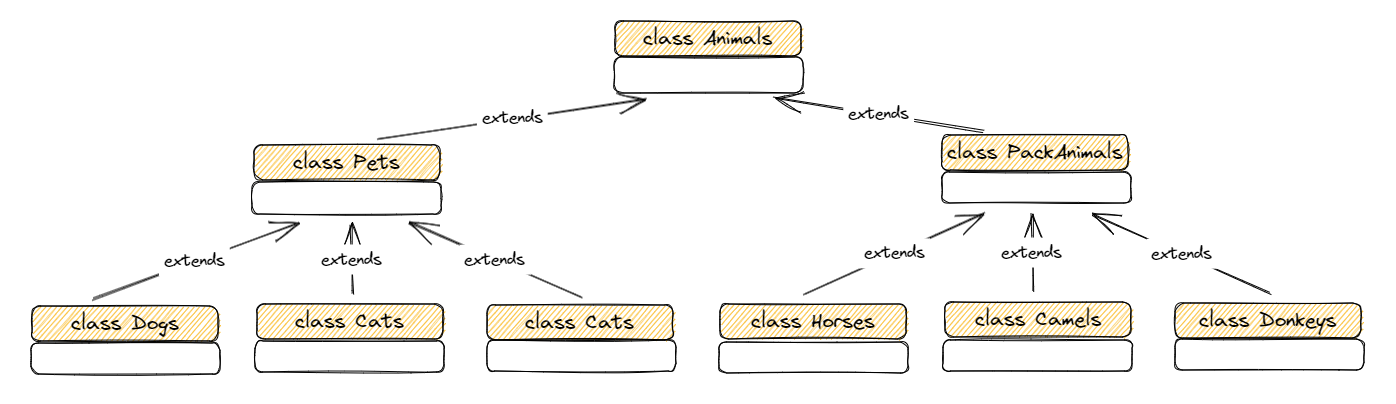
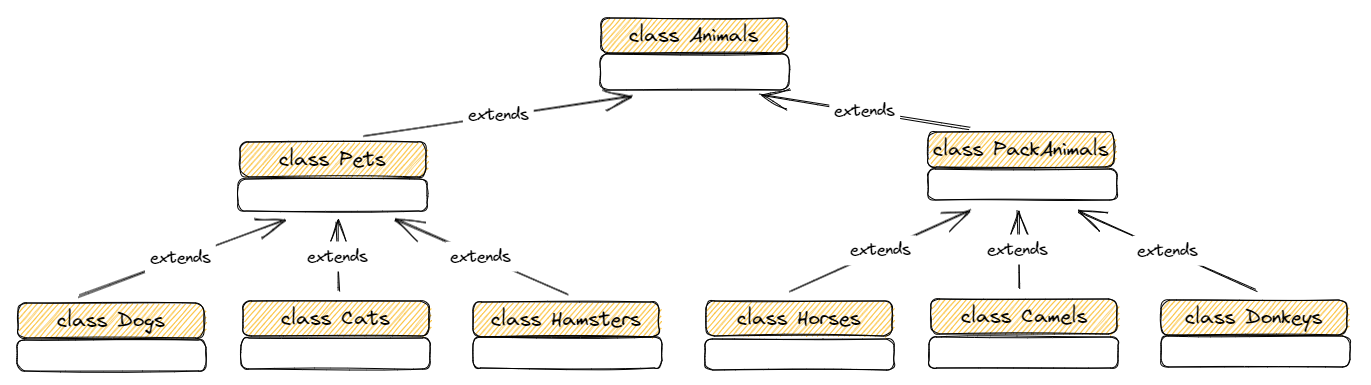
add creating tables in Readme.md

diff --git a/Readme.md b/Readme.md
@@ -134,8 +134,46 @@ aleksey@ubuntu-gb:~/gb$
 7. В подключенном MySQL репозитории создать базу данных “Друзья
    человека”
 ```sql
-CREATE DATABASE `mans_friends` ;
+CREATE DATABASE mans_friends;
 ```
+8. Создать таблицы с иерархией из диаграммы в БД
+```sql
+USE mans_friends;
+
+CREATE TABLE animals
+(
+	id INT AUTO_INCREMENT PRIMARY KEY,
+	animal_type VARCHAR(30)
+);
+
+INSERT INTO animals (animal_type)
+VALUES ('Домашние животные'), ('Вьючные животные');
+
+CREATE TABLE pets
+(
+	id INT AUTO_INCREMENT PRIMARY KEY,
+	animal_kind VARCHAR(30),
+	animal_type_id INT DEFAULT 1,
+	FOREIGN KEY (animal_type_id) REFERENCES animals (id) ON DELETE CASCADE ON UPDATE CASCADE
+);
+
+INSERT INTO pets (animal_kind)
+VALUES ('Собаки'), ('Кошки'), ('Хомяки');
+
+CREATE TABLE pack_animals
+(
+	id INT AUTO_INCREMENT PRIMARY KEY,
+	animal_kind VARCHAR(30),
+	animal_type_id INT DEFAULT 2,
+	FOREIGN KEY (animal_type_id) REFERENCES animals (id) ON DELETE CASCADE ON UPDATE CASCADE
+);
+
+INSERT INTO pack_animals (animal_kind)
+VALUES ('Лошади'), ('Верблюды'), ('Ослы');
+```
+9. 
+
+
 * **
 ## *Приложение система учёта питомника (Java)*
 * **
